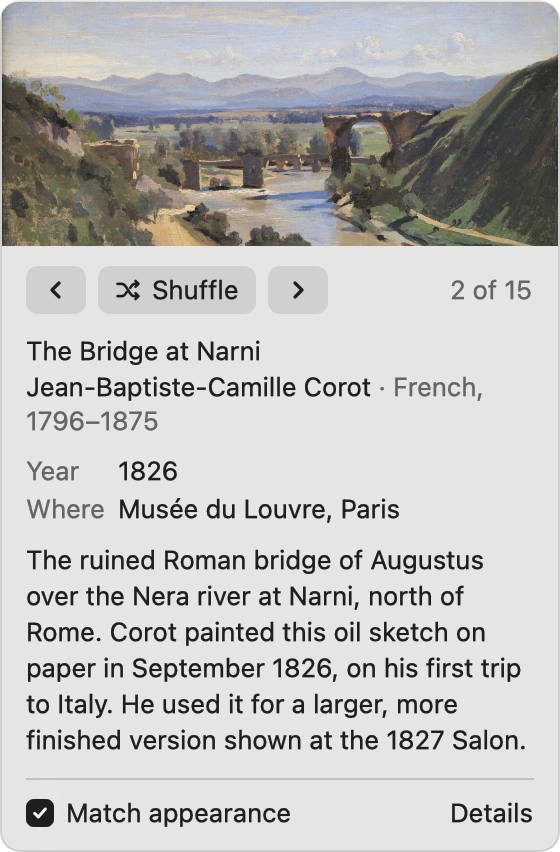
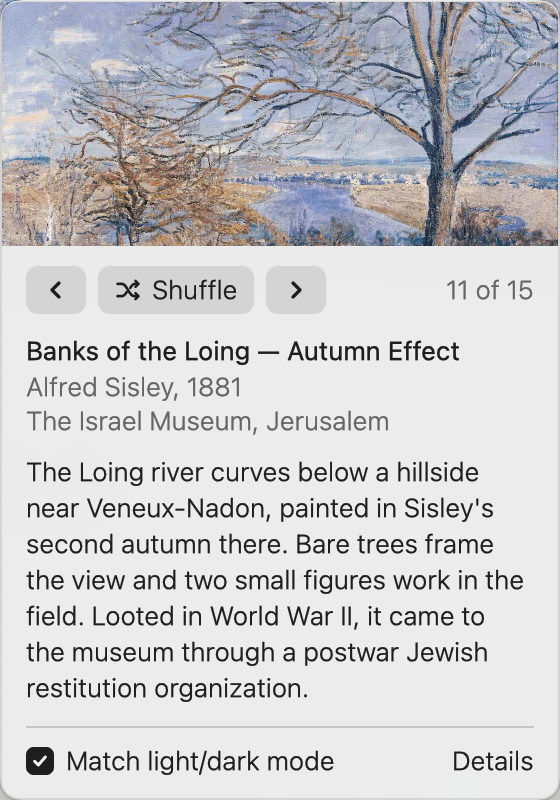
Popover: drop the Year and Where labels, grey byline, lighter body weight to match system menus

diff --git a/crates/app/src/ui/popover.rs b/crates/app/src/ui/popover.rs
@@ -2,8 +2,8 @@
 //!
 //! Top to bottom, as in the approved mockup: the painting cropped wide, a
 //! row of previous / Shuffle / next with the pool position on the right, the
-//! title and artist, Year and Where, a few sentences about it, and a footer
-//! with the Match appearance box and a link out.
+//! title, then artist, year and museum in grey, a few sentences about it, and
+//! a footer with the Match light/dark mode box and a link out.
 //!
 //! Stepping is also ←/→ while the popover has focus, and a sideways swipe
 //! over the picture (one swipe, one step; see [`StepGate`]).
@@ -20,9 +20,9 @@ use std::time::Instant;
 use gpui::prelude::FluentBuilder;
 use gpui::{
     actions, div, img, px, size, svg, App, Context, Div, EventEmitter, FocusHandle, Focusable,
-    HighlightStyle, InteractiveElement, IntoElement, KeyBinding, ObjectFit, ParentElement, Render,
-    ScrollDelta, ScrollWheelEvent, SharedString, StatefulInteractiveElement, Styled, StyledImage,
-    StyledText, TouchPhase, Window,
+    InteractiveElement, IntoElement, KeyBinding, ObjectFit, ParentElement, Render, ScrollDelta,
+    ScrollWheelEvent, SharedString, StatefulInteractiveElement, Styled, StyledImage, TouchPhase,
+    Window,
 };
 use wallbar_core::gesture::{Phase, Step, StepGate};
 use wallbar_core::Painting;
@@ -322,56 +322,25 @@ impl Popover {
         )
     }
 
-    /// "Artist · Nationality, dates" as one paragraph, so it wraps as one.
-    fn artist_line(&self, p: &Painting) -> Option<impl IntoElement> {
-        if p.artist.is_empty() {
-            return None;
-        }
-        let (text, grey) = match &p.life {
-            Some(life) => {
-                let text = format!("{} \u{00b7} {}", p.artist, life);
-                let start = p.artist.len();
-                (text.clone(), Some(start..text.len()))
-            }
-            None => (p.artist.clone(), None),
+    /// "Artist, year" and then where it hangs, both grey under the title,
+    /// the way a system menu greys the lines under its header.
+    fn byline(&self, p: &Painting) -> Vec<gpui::AnyElement> {
+        let who = match (p.artist.is_empty(), &p.year) {
+            (false, Some(year)) => Some(format!("{}, {}", p.artist, year)),
+            (false, None) => Some(p.artist.clone()),
+            (true, Some(year)) => Some(year.clone()),
+            (true, None) => None,
         };
-        let highlights: Vec<_> = grey
+        [who, p.where_.clone()]
             .into_iter()
-            .map(|range| {
-                (
-                    range,
-                    // A highlight colour is blended over the ink, which
-                    // leaves grey-over-ink looking like ink; fading the ink
-                    // to the secondary alpha gives the real grey.
-                    HighlightStyle {
-                        fade_out: Some(1.0 - self.theme.secondary.a / self.theme.text.a),
-                        ..Default::default()
-                    },
-                )
+            .flatten()
+            .map(|line| {
+                div()
+                    .text_color(self.theme.secondary)
+                    .child(line)
+                    .into_any_element()
             })
-            .collect();
-        Some(
-            div()
-                .pt(px(1.))
-                .child(StyledText::new(text).with_highlights(highlights)),
-        )
-    }
-
-    fn fact(&self, label: &'static str, value: &Option<String>) -> Option<impl IntoElement> {
-        let value = value.clone()?;
-        Some(
-            div()
-                .flex()
-                .flex_row()
-                .child(
-                    div()
-                        .flex_none()
-                        .w(theme::LABEL_WIDTH)
-                        .text_color(self.theme.secondary)
-                        .child(label),
-                )
-                .child(div().flex_1().child(value)),
-        )
+            .collect()
     }
 
     fn body(&self, cx: &mut Context<Self>) -> impl IntoElement {
@@ -381,15 +350,7 @@ impl Popover {
             .map(|p| p.title.clone())
             .unwrap_or_else(|| "No wallpaper".to_owned())
             .into();
-        let facts: Vec<gpui::AnyElement> = painting
-            .map(|p| {
-                [self.fact("Year", &p.year), self.fact("Where", &p.where_)]
-                    .into_iter()
-                    .flatten()
-                    .map(IntoElement::into_any_element)
-                    .collect()
-            })
-            .unwrap_or_default();
+        let byline = painting.map(|p| self.byline(p)).unwrap_or_default();
         let about = painting.and_then(|p| p.about.clone());
         let link_label = painting.map(|p| p.link_label());
 
@@ -401,17 +362,7 @@ impl Popover {
             .pt(px(10.))
             .pb(px(10.))
             .child(div().font_weight(theme::WEIGHT_EMPHASIS).child(title))
-            .children(painting.and_then(|p| self.artist_line(p)))
-            .when(!facts.is_empty(), |el| {
-                el.child(
-                    div()
-                        .flex()
-                        .flex_col()
-                        .gap(px(2.))
-                        .pt(px(8.))
-                        .children(facts),
-                )
-            })
+            .child(div().pt(px(1.)).flex().flex_col().children(byline))
             .children(
                 about.map(|about| div().pt(px(8.)).line_height(theme::LINE_PROSE).child(about)),
             )
@@ -454,7 +405,7 @@ impl Popover {
                     .items_center()
                     .gap(px(6.))
                     .child(checkbox)
-                    .child("Match appearance")
+                    .child("Match light/dark mode")
                     .on_click(cx.listener(|this, _, _, cx| this.toggle_match(cx))),
             )
             .child(div().flex_1())
@@ -535,6 +486,7 @@ impl Render for Popover {
             .font_family(theme::UI_FAMILY)
             .text_size(theme::TEXT)
             .line_height(theme::LINE)
+            .font_weight(theme::WEIGHT_BODY)
             .text_color(theme.text)
             .child(self.header(cx))
             .child(self.nav(cx))

diff --git a/crates/app/src/ui/theme.rs b/crates/app/src/ui/theme.rs
@@ -118,8 +118,6 @@ pub const BUTTON_MIN_WIDTH: Pixels = px(30.);
 pub const BUTTON_RADIUS: Pixels = px(6.);
 pub const ICON: Pixels = px(12.);
 pub const SHUFFLE_ICON: Pixels = px(14.);
-/// The Year / Where label column.
-pub const LABEL_WIDTH: Pixels = px(46.);
 /// The Match appearance checkbox.
 pub const CHECKBOX: Pixels = px(14.);
 pub const CHECKBOX_RADIUS: Pixels = px(4.);
@@ -136,6 +134,9 @@ pub const CAPTION: Pixels = px(11.);
 pub const LINE_CAPTION: Pixels = px(14.);
 /// Medium, not semibold: semibold reads as shouting next to system menus.
 pub const WEIGHT_EMPHASIS: FontWeight = FontWeight::MEDIUM;
+/// Everything else. gpui rasterises SF heavier than AppKit does, so its
+/// light face is what matches a system menu's regular text.
+pub const WEIGHT_BODY: FontWeight = FontWeight::LIGHT;
 pub const UI_FAMILY: &str = ".SystemUIFont";
 
 #[cfg(test)]

diff --git a/README.md b/README.md
@@ -7,7 +7,7 @@ next / previous / shuffle, and a wall label for whatever is on the desktop.
 
 - **Menu bar.** A thin picture-frame icon. Click it for the popover: the
   painting, previous / Shuffle / next with its place in the pool, title,
-  artist, year, where it hangs, a note about it, a Match appearance box and a
+  artist, year, where it hangs, a note about it, a Match light/dark mode box and a
   link out. ←/→ step while it is open, and so does a sideways swipe over the
   picture. Scrolling over the icon steps without opening anything.
 - **CLI.** The same binary with a subcommand (`wallbar next`, `wallbar list
@@ -19,7 +19,7 @@ next / previous / shuffle, and a wall label for whatever is on the desktop.
 
 `~/Pictures/wallpapers` (or `$WALLBAR_DIR`): `.jpg`, `.jpeg`, `.png` and
 `.heic` files named `<Light|Dark> - <Artist> - <Title>.<ext>`, sorted by name.
-With Match appearance on, next / previous / shuffle stay among the `Light`
+With Match light/dark mode on, next / previous / shuffle stay among the `Light`
 files in light mode and the `Dark` files in dark mode.
 
 Details come from an optional `paintings.json` in the folder, keyed by
@@ -40,7 +40,7 @@ On its first run from the bundle the app registers itself as a login item
 Items and it stays off.
 
 Thumbnails for the popover are cached in `~/Library/Caches/wallbar`; state
-(history and the Match appearance switch) is in
+(history and the Match light/dark mode switch) is in
 `~/Library/Application Support/wallbar/state.json`.
 
 ## Spaces
